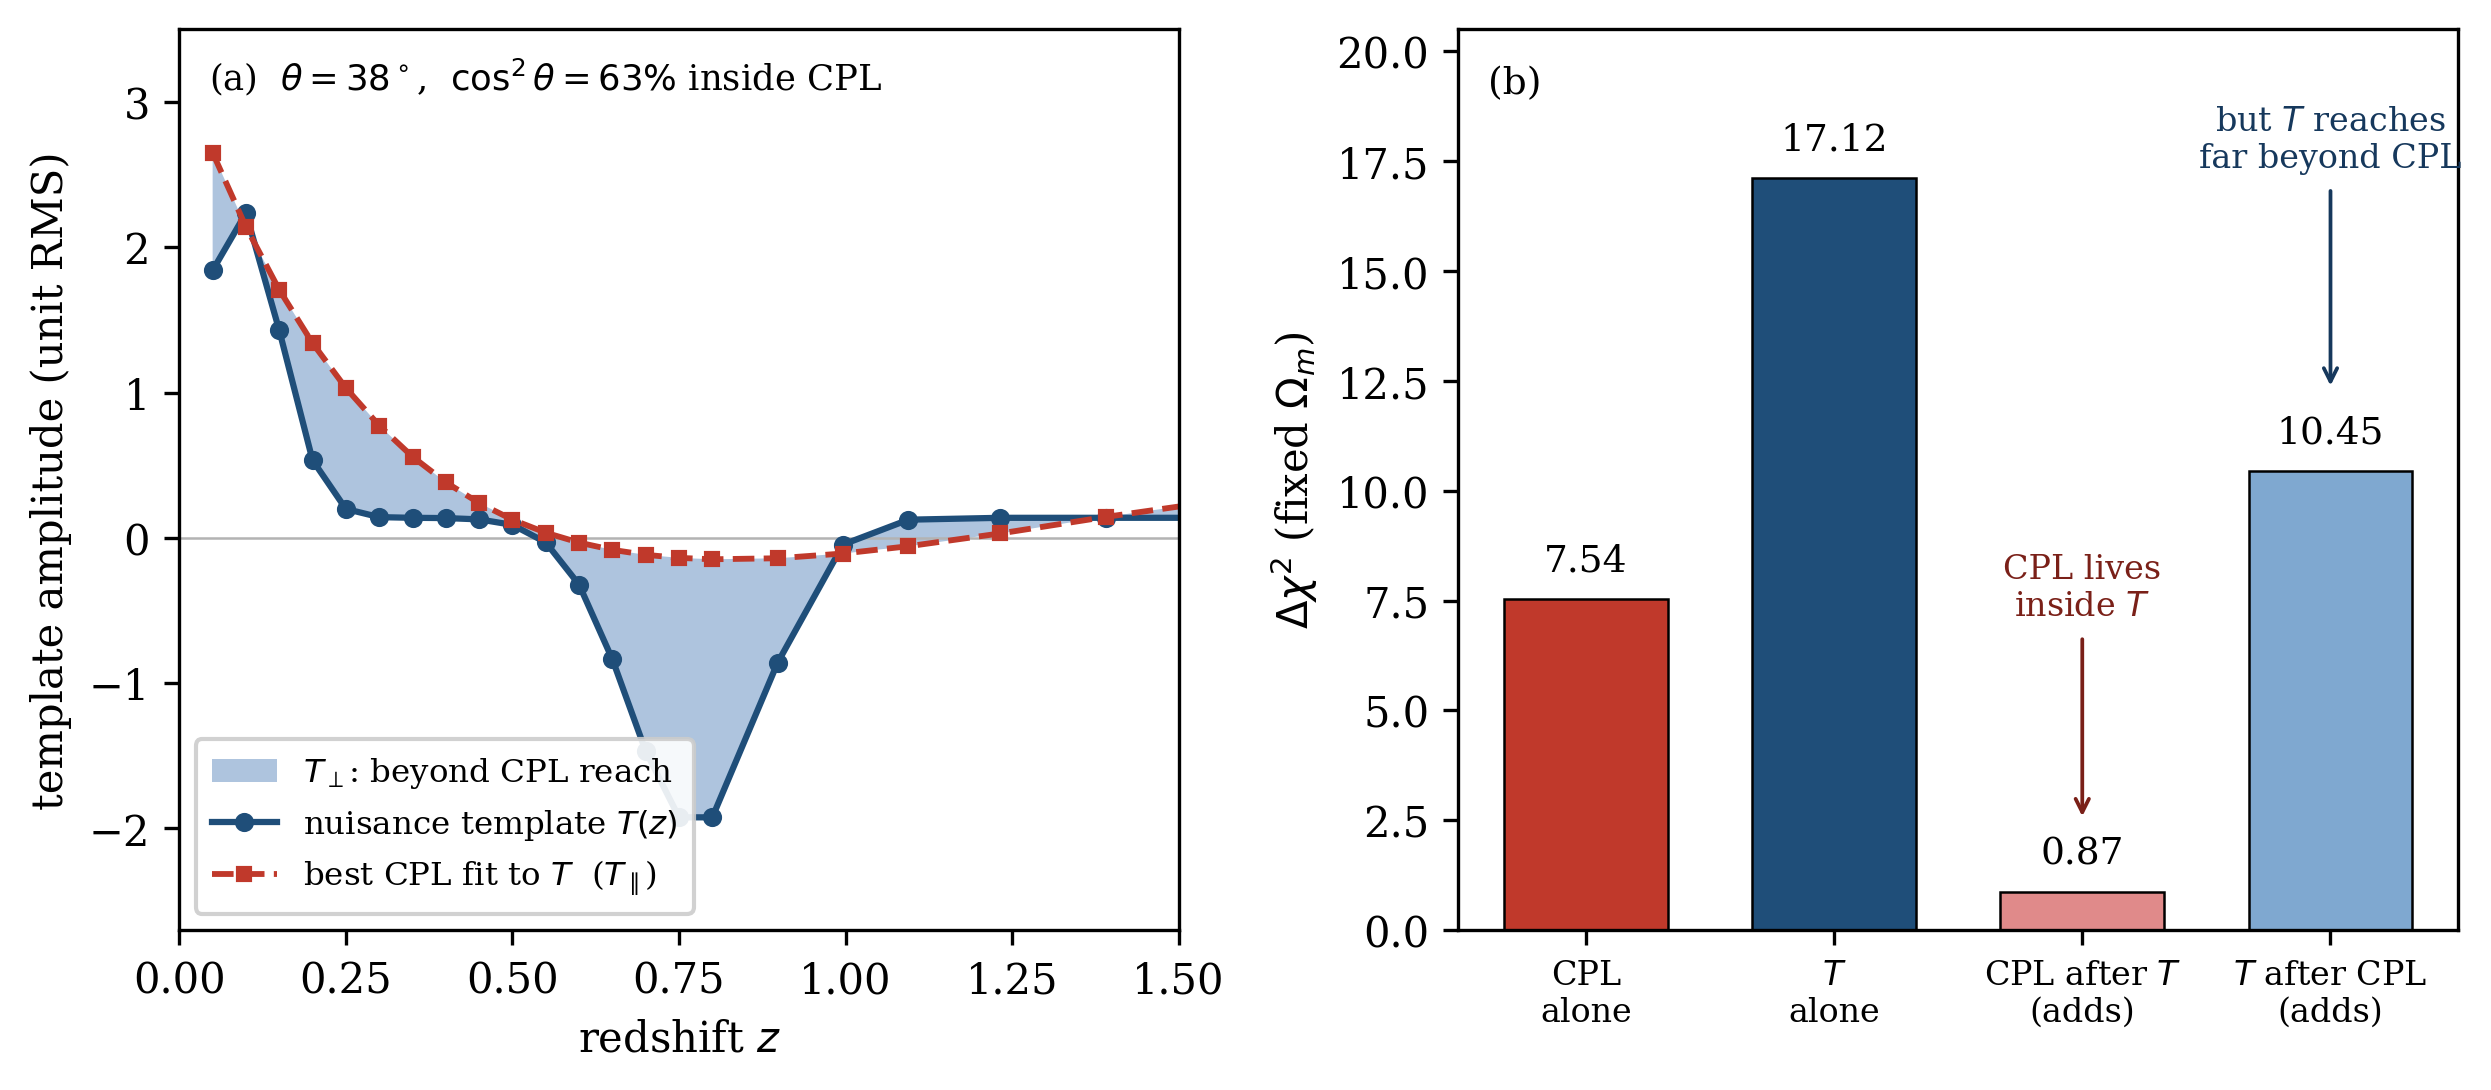
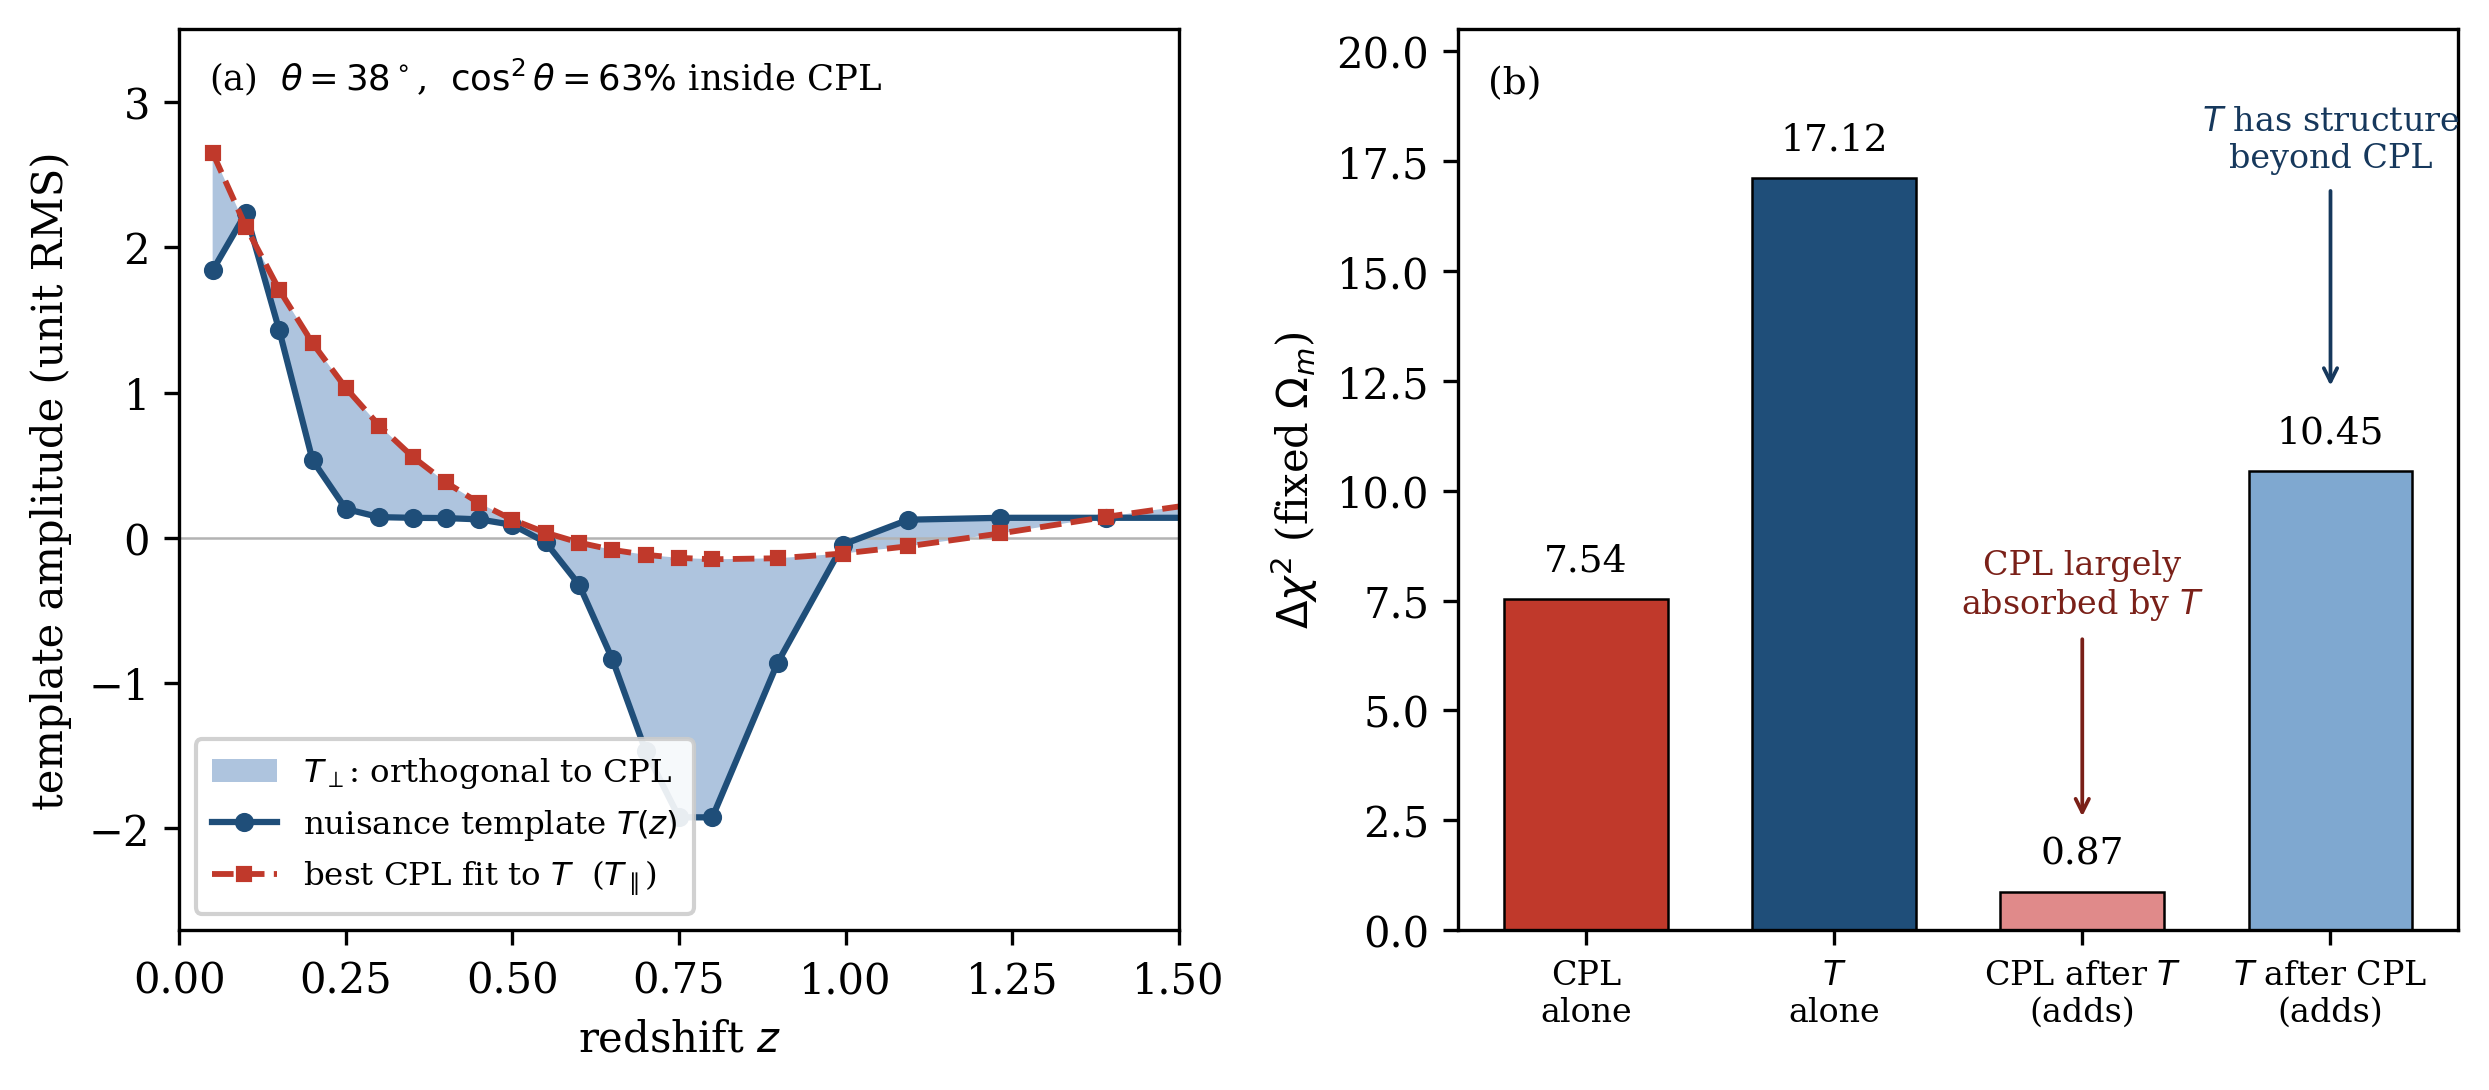
Add files via upload

diff --git a/paper/union3_nuisance.tex b/paper/union3_nuisance.tex
@@ -55,7 +55,7 @@ $\Delta\chi^2\approx0.87$ and is AIC-disfavored.
 A public-data Cobaya cross-check using DESI DR1 BAO, a compressed CMB prior on
 $\Omega_m h^2$, and the Union3 compressed likelihood gives the same qualitative
 result: CPL improves $\chi^2$ by $8.29$ without the nuisance mode, but only by
-$0.52$ after the nuisance mode is included, with the CPL+nuisance posterior shifting
+$0.52$ after the nuisance mode is included, with the CPL+nuisance best-fit solution shifting
 close to $\Lambda$CDM ($w_0=-0.999$, $w_a=-0.192$).
 \textbf{A new full-likelihood cross-check}---Planck NPIPE CamSpec TTTEEE plus
 low-$\ell$ TT/EE, DESI DR1 BAO, and the Union3 likelihood with the nuisance amplitude
@@ -88,7 +88,7 @@ cover limited redshift ranges, making multi-survey compilations necessary but
 potentially introducing redshift-dependent systematics at survey boundaries. Related
 work by Efstathiou \cite{efstathiou2025} identified a systematic offset between low-
 and high-redshift supernovae in Pantheon$+$ and DES5Y, and noted that Union3
-individual-SN data were not publicly available for direct analysis. Cort\^es \&
+individual-SN data were not publicly available for direct analysis. Subsequent analyses have sharpened this question: Huang et al.\ \cite{huang2025} used the intercept of the SN magnitude--redshift relation to argue that correcting a low-$z$ discrepancy in DES5Y reduces the CPL preference to $0.5$--$1.5\sigma$, and Ormondroyd et al.\ \cite{ormondroyd2026} showed via Bayesian model selection that a low-$z$ magnitude offset is favoured over a dynamical reconstruction for DES5Y$+$DESI; most recently Mirpoorian et al.\ \cite{mirpoorian2026} fit a look-back-time-scaled magnitude nuisance jointly with $w_0w_a$CDM on Pantheon$+$, finding negligible impact for uncalibrated SNe. These interpretations remain contested, with Vincenzi et al.\ \cite{vincenzi2025} attributing much of the offset to Malmquist-bias and intrinsic-scatter modelling and the recalibrated DES ``Dovekie'' analysis \cite{popovic2025} continuing to prefer evolving dark energy. Almost all of this work targets DES5Y or Pantheon$+$, whose per-object data are public, which is what makes the Union3-specific test below distinct. Cort\^es \&
 Liddle \cite{cortes2025}, addressing DESI DR2, further showed that properly accounting
 for the substantial overlap between primary SN compilations reduces the combined
 $\Lambda$CDM exclusion significance to $3.1\sigma$---identical to the DESI BAO$+$CMB
@@ -202,7 +202,7 @@ CPL vs $\Lambda$CDM$+$nuis. & & & & & & $+0.52$ / $-3.48$ \\
 Without the nuisance mode, CPL improves $\chi^2$ by $8.29$ and shifts to $w_0=-0.688$,
 $w_a=-1.070$, consistent with published DESI DR1$+$CMB$+$Union3 results. After including
 the nuisance, CPL improves $\chi^2$ by only $0.52$ relative to $\Lambda$CDM$+$nuisance
-(AIC $-3.48$), while the CPL$+$nuisance mean shifts to $w_0=-0.999$, $w_a=-0.192$---close
+(AIC $-3.48$), while the CPL$+$nuisance best-fit solution shifts to $w_0=-0.999$, $w_a=-0.192$---close
 to $\Lambda$CDM in this proxy analysis.
 
 % ====================================================================
@@ -305,7 +305,7 @@ is reduced, but not removed, by the Union3.1/UNITY processing. This monotonic de
 also bears directly on the central interpretive question of whether the template
 absorbs a genuine systematic or, instead, real cosmological signal: the underlying
 $w_0$--$w_a$ cosmology is identical across the three compressed matrices, so a template
-tracing a true dark-energy signal would be expected to retain its amplitude. Instead
+tracing a purely cosmological signal would not naturally be expected to decrease in step with documented low-$z$ host-mass corrections. Instead
 the amplitude falls in step with the documented low-$z$ host-mass correction of Hoyt
 et al.\ \cite{hoyt2026}---the behaviour expected if the template is tracing that
 corrected systematic rather than the dynamical-dark-energy signal. Importantly, this
@@ -615,8 +615,7 @@ amplitude $a$, CPL$+$nuisance (mag)            & $0.0357$ \\
 subspace, $T_\parallel$ (red dashed). CPL reproduces $T$ at low redshift but cannot fit
 the sharp $z\approx0.78$ step (shaded $T_\perp$, the $37\%$ of $T$ orthogonal to all
 $w_0$--$w_a$ deformations). \textbf{(b)} Nested $\Delta\chi^2$ ledger: CPL adds only
-$0.87$ after $T$, but $T$ adds $10.45$ after CPL---CPL lives inside $T$, while $T$ reaches
-well beyond CPL.}
+$0.87$ after $T$, but $T$ adds $10.45$ after CPL: CPL is largely absorbed by $T$, while $T$ contains structure beyond CPL.}
 \label{fig:overlap}
 \end{figure}
 
@@ -663,9 +662,7 @@ from public data and scripts.
 
 The definitive test is to rerun the official DESI $+$ CMB $+$ Union3 $w_0$--$w_a$
 likelihood with an added low-$z$ / mid-$z$ redshift-dependent nuisance parameter and
-compare $\Lambda$CDM$+$nuisance, CPL, and CPL$+$nuisance. If CPL loses AIC support after
-the nuisance is included, the Union3 contribution to the $w_0$--$w_a$ preference is
-systematics-limited. If the preference persists, the concern is resolved. The
+compare $\Lambda$CDM$+$nuisance, CPL, and CPL$+$nuisance. If CPL loses AIC support after the nuisance is included, this would indicate that the Union3 contribution to the $w_0$--$w_a$ preference is strongly sensitive to this systematic-like direction, and would be consistent with a systematics-limited SN contribution. If the preference persists, the concern is resolved. The
 full-likelihood cross-check of Section~\ref{sec:fullplanck} carries out this comparison
 in the public pipeline and finds that CPL does lose AIC support
 ($+8.42\to-0.38$) once the nuisance is marginalized; an official internal-systematics
@@ -706,7 +703,7 @@ explicit redshift-dependent nuisance parameter.
 \href{https://arxiv.org/abs/2601.19424}{arXiv:2601.19424} --- Union3.1 host-galaxy mass re-measurements and low-$z$ distance corrections.
 \bibitem{rubin2026} Rubin D.\ et al.\ 2026,
 \href{https://arxiv.org/abs/2601.19854}{arXiv:2601.19854} --- Union3.1 $+$ UNITY1.8 two-population light-curve standardization framework.
-\bibitem{efstathiou2025} Efstathiou G.\ 2025, MNRAS --- Systematic offset in low-$z$ supernovae in Pantheon$+$ and DES5Y.
+\bibitem{efstathiou2025} Efstathiou G.\ 2025, MNRAS, \href{https://arxiv.org/abs/2408.07175}{arXiv:2408.07175} --- Systematic offset in low-$z$ supernovae in Pantheon$+$ and DES5Y.
 \bibitem{planck2018} Planck Collaboration 2018,
 \href{https://arxiv.org/abs/1807.06209}{arXiv:1807.06209} --- Planck 2018 cosmological parameters.
 \bibitem{kim2024} Kim A.G.\ 2024,
@@ -716,6 +713,16 @@ explicit redshift-dependent nuisance parameter.
 \bibitem{data} Data: \texttt{rubind/union3\_release} (GitHub) --- Union3 and Union3.1 compressed likelihood files (public).
 \bibitem{truong2026} Truong J., Aldering G., Perlmutter S., Rubin D., Schlegel D.\ 2026,
 \href{https://arxiv.org/abs/2604.18859}{arXiv:2604.18859} --- Testing $\Lambda$CDM versus dynamical dark energy in one year: a DESI spectroscopic follow-up program for Rubin supernovae.
+\bibitem{huang2025} Huang L., Cai R.-G., \& Wang S.-J.\ 2025,
+\href{https://arxiv.org/abs/2502.04212}{arXiv:2502.04212}, Sci.\ China Phys.\ Mech.\ Astron.\ --- DESI dynamical-dark-energy evidence biased by low-$z$ supernovae.
+\bibitem{ormondroyd2026} Ormondroyd A.N., Handley W.J., Hobson M.P., Lasenby A.N., \& Yallup D.\ 2026,
+\href{https://arxiv.org/abs/2509.13220}{arXiv:2509.13220}, MNRAS --- Bayesian model selection between dark energy and supernova biases.
+\bibitem{mirpoorian2026} Mirpoorian S.H., Lin M.-X., \& Pogosian L.\ 2026,
+\href{https://arxiv.org/abs/2604.24761}{arXiv:2604.24761} --- Cosmological impact of redshift-dependent Type~Ia supernova calibration.
+\bibitem{vincenzi2025} Vincenzi M.\ et al.\ (DES) 2025,
+\href{https://arxiv.org/abs/2501.06664}{arXiv:2501.06664} --- Comparing DES-SN5YR and Pantheon$+$; offset largely from Malmquist-bias/intrinsic-scatter modelling.
+\bibitem{popovic2025} Popovic B.\ et al.\ 2025,
+\href{https://arxiv.org/abs/2511.07517}{arXiv:2511.07517} --- DES SN reanalysis (Dovekie recalibration); continued preference for evolving dark energy.
 \end{thebibliography}
 
 \vspace{1em}